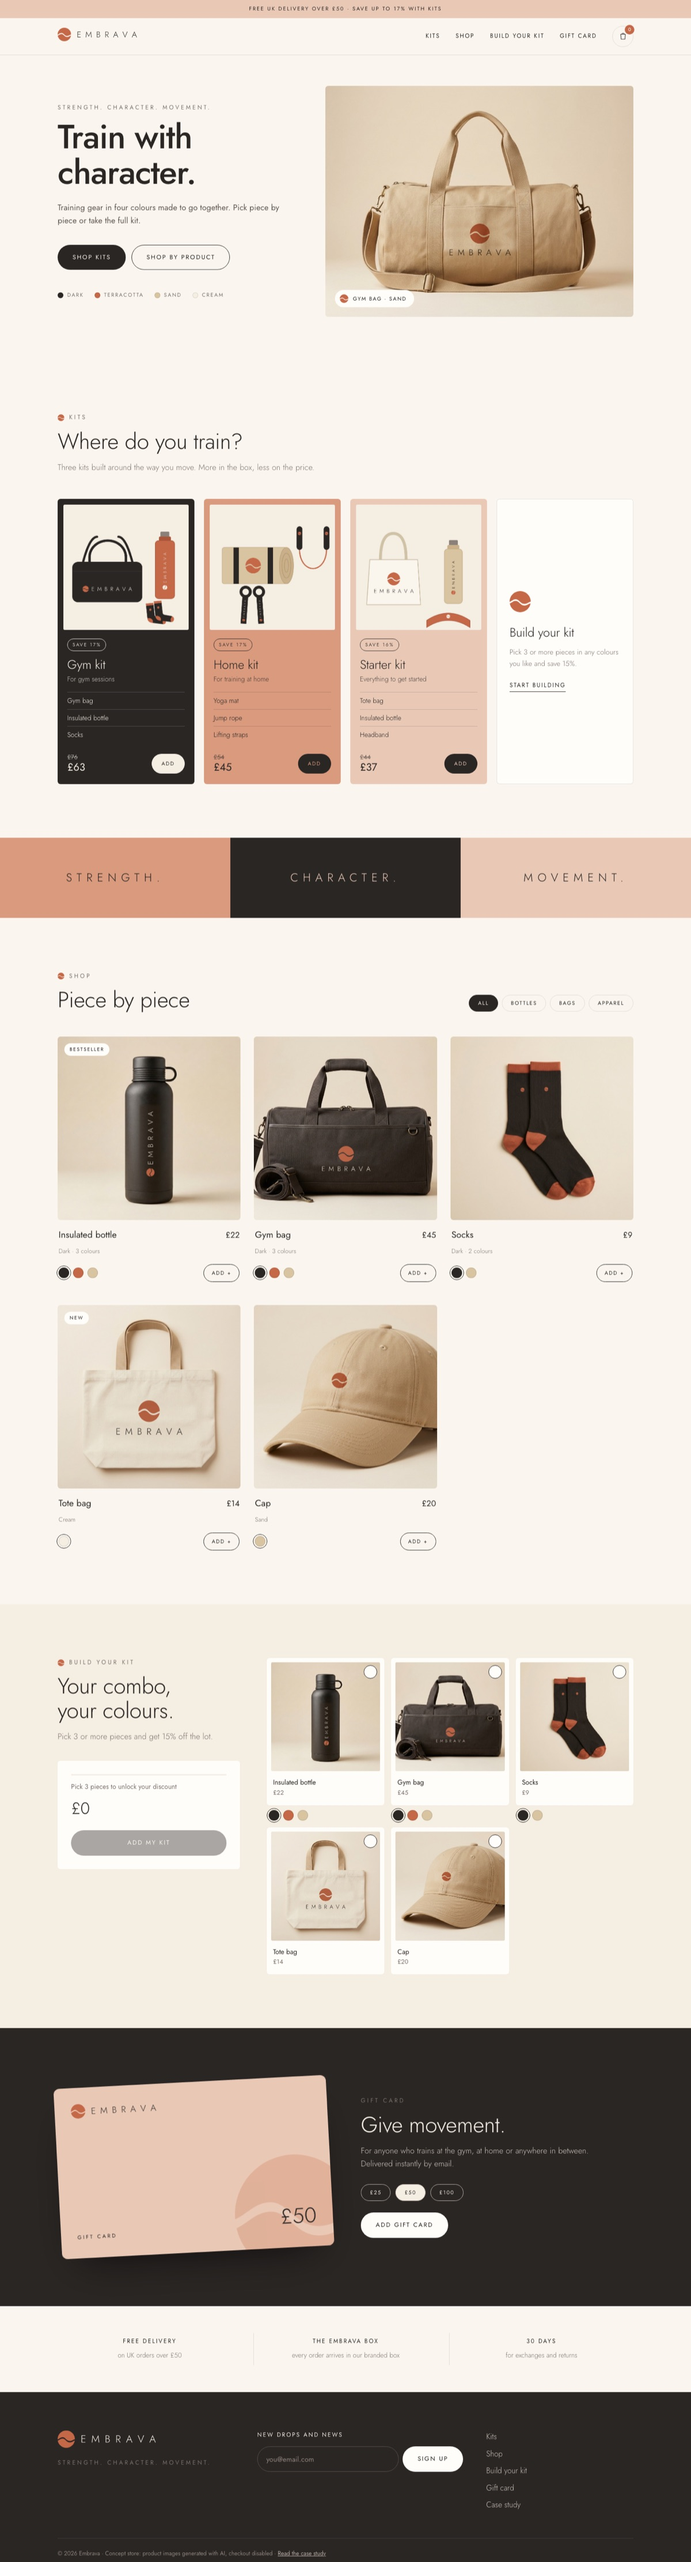
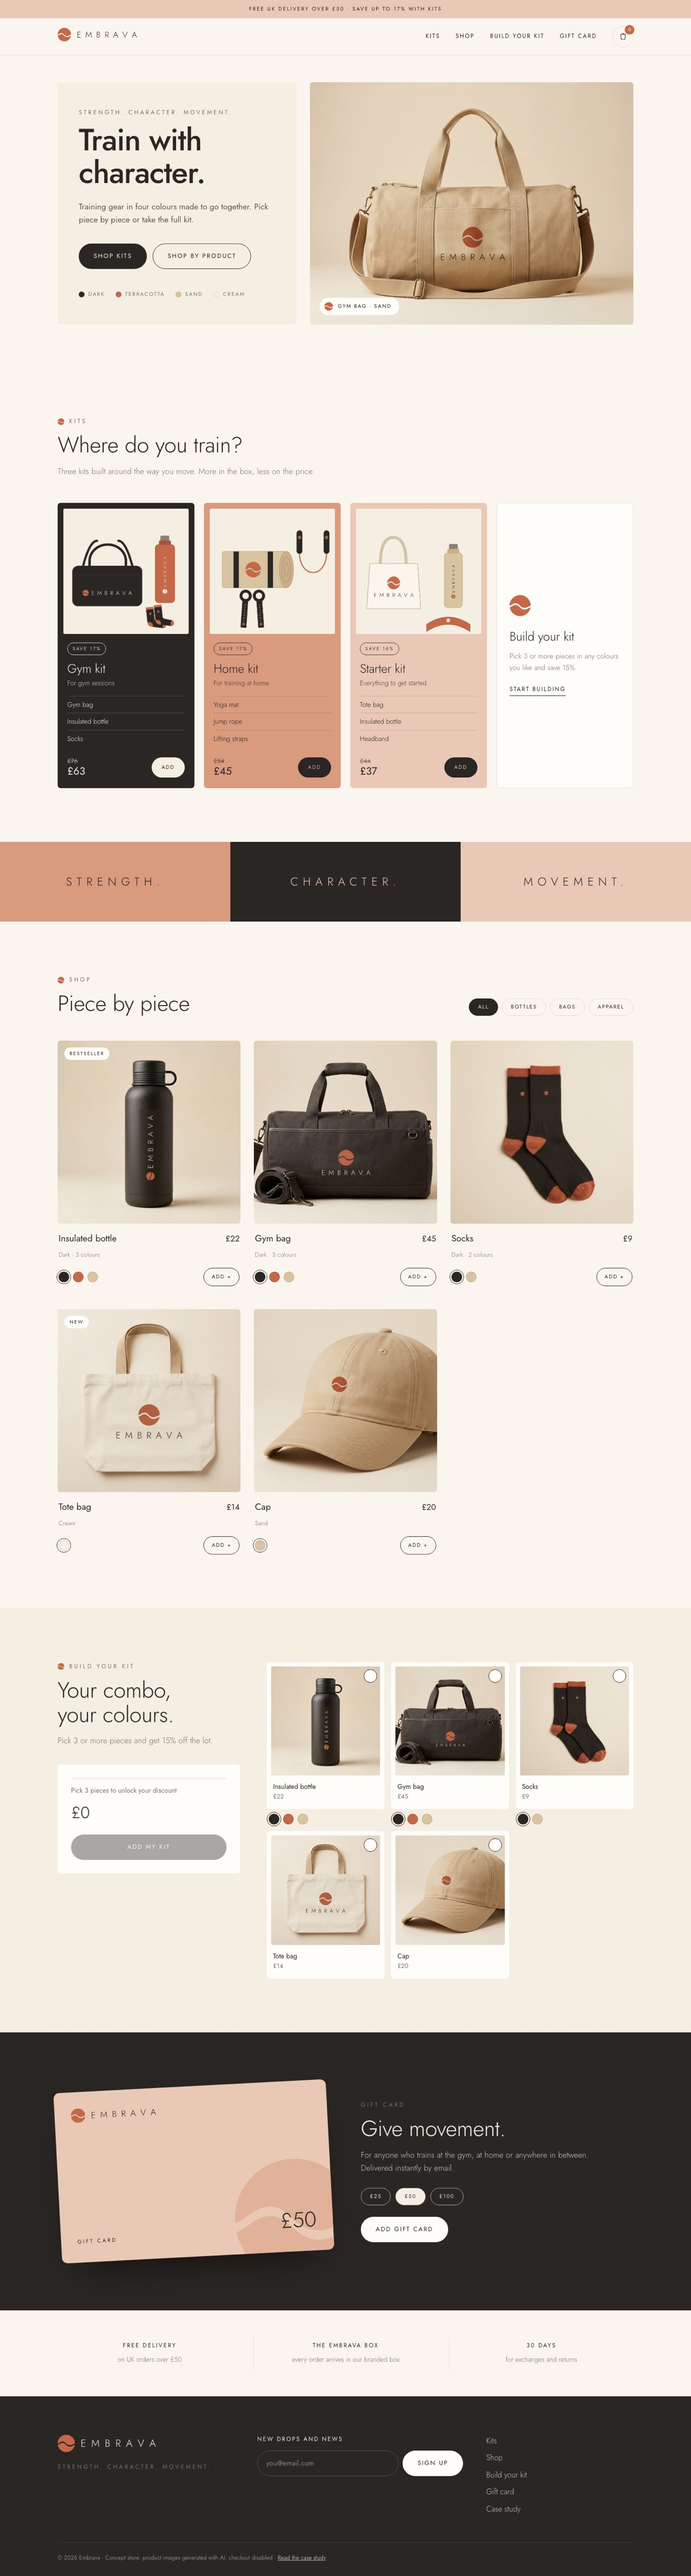
Put the hero copy in its own block beside the photo

diff --git a/styles.css b/styles.css
@@ -116,9 +116,10 @@ strong { font-weight: 500; }
 @keyframes bump { 50% { transform: scale(1.15); } }
 
 /* Hero */
-.hero { position: relative; padding: 64px 0 88px; overflow: hidden; }
-.hero__inner { position: relative; z-index: 1; display: grid; grid-template-columns: .9fr 1.1fr; gap: 32px; align-items: center; }
-.hero h1 { font-size: clamp(42px, 5.2vw, 70px); font-weight: 500; letter-spacing: -0.02em; line-height: 1.05; margin-bottom: 24px; }
+.hero { position: relative; padding: 56px 0 80px; overflow: hidden; }
+.hero__inner { position: relative; z-index: 1; display: grid; grid-template-columns: .85fr 1.15fr; gap: 28px; align-items: stretch; }
+.hero__copy { display: flex; flex-direction: column; justify-content: center; background: var(--surface-2); border-radius: var(--radius); padding: 48px 44px; }
+.hero h1 { font-size: clamp(40px, 4.8vw, 64px); font-weight: 500; letter-spacing: -0.02em; line-height: 1.05; margin-bottom: 24px; }
 .hero__lead { font-size: 17px; font-weight: 400; color: #5F5650; max-width: 28em; margin: 0 0 36px; }
 .hero__ctas { display: flex; gap: 12px; flex-wrap: wrap; }
 .hero__swatches { list-style: none; padding: 0; margin: 44px 0 0; display: flex; gap: 22px; flex-wrap: wrap; font-size: 11px; letter-spacing: .18em; text-transform: uppercase; color: var(--muted); }
@@ -126,7 +127,7 @@ strong { font-weight: 500; }
 .hero__swatches span { width: 12px; height: 12px; border-radius: 50%; background: var(--c); box-shadow: inset 0 0 0 1px var(--line); }
 .hero__media { position: relative; }
 .hero__img {
-  position: relative; z-index: 1; aspect-ratio: 4 / 3; object-fit: cover;
+  position: relative; z-index: 1; aspect-ratio: 4 / 3; object-fit: cover; height: 100%;
   border-radius: var(--radius); width: 100%;
 }
 .hero__tag {
@@ -353,7 +354,9 @@ strong { font-weight: 500; }
 @media (max-width: 860px) {
   .nav { display: none; }
   .header__inner { justify-content: space-between; }
-  .hero { padding: 40px 0 64px; }
+  .hero { padding: 24px 0 56px; }
+  .hero__copy { padding: 36px 24px; }
+  .hero__img { height: auto; }
   .hero__inner, .gift__inner { grid-template-columns: 1fr; gap: 44px; }
   .grid { grid-template-columns: repeat(2, 1fr); }
   .footer__inner { grid-template-columns: 1fr; gap: 36px; }

diff --git a/case-study.html b/case-study.html
@@ -205,7 +205,7 @@
       </div>
       <div class="cs-split__body">
         <div class="cs-scroll" tabindex="0" aria-label="Full homepage screenshot, scrollable">
-          <img src="assets/case/home-full.jpg" alt="Full-length screenshot of the Embrava homepage: hero, kits, brand band, shop grid, build your kit, gift card and footer" width="1200" height="4446" loading="lazy">
+          <img src="assets/case/home-full.jpg" alt="Full-length screenshot of the Embrava homepage: hero, kits, brand band, shop grid, build your kit, gift card and footer" width="1200" height="4470" loading="lazy">
         </div>
       </div>
     </div>
